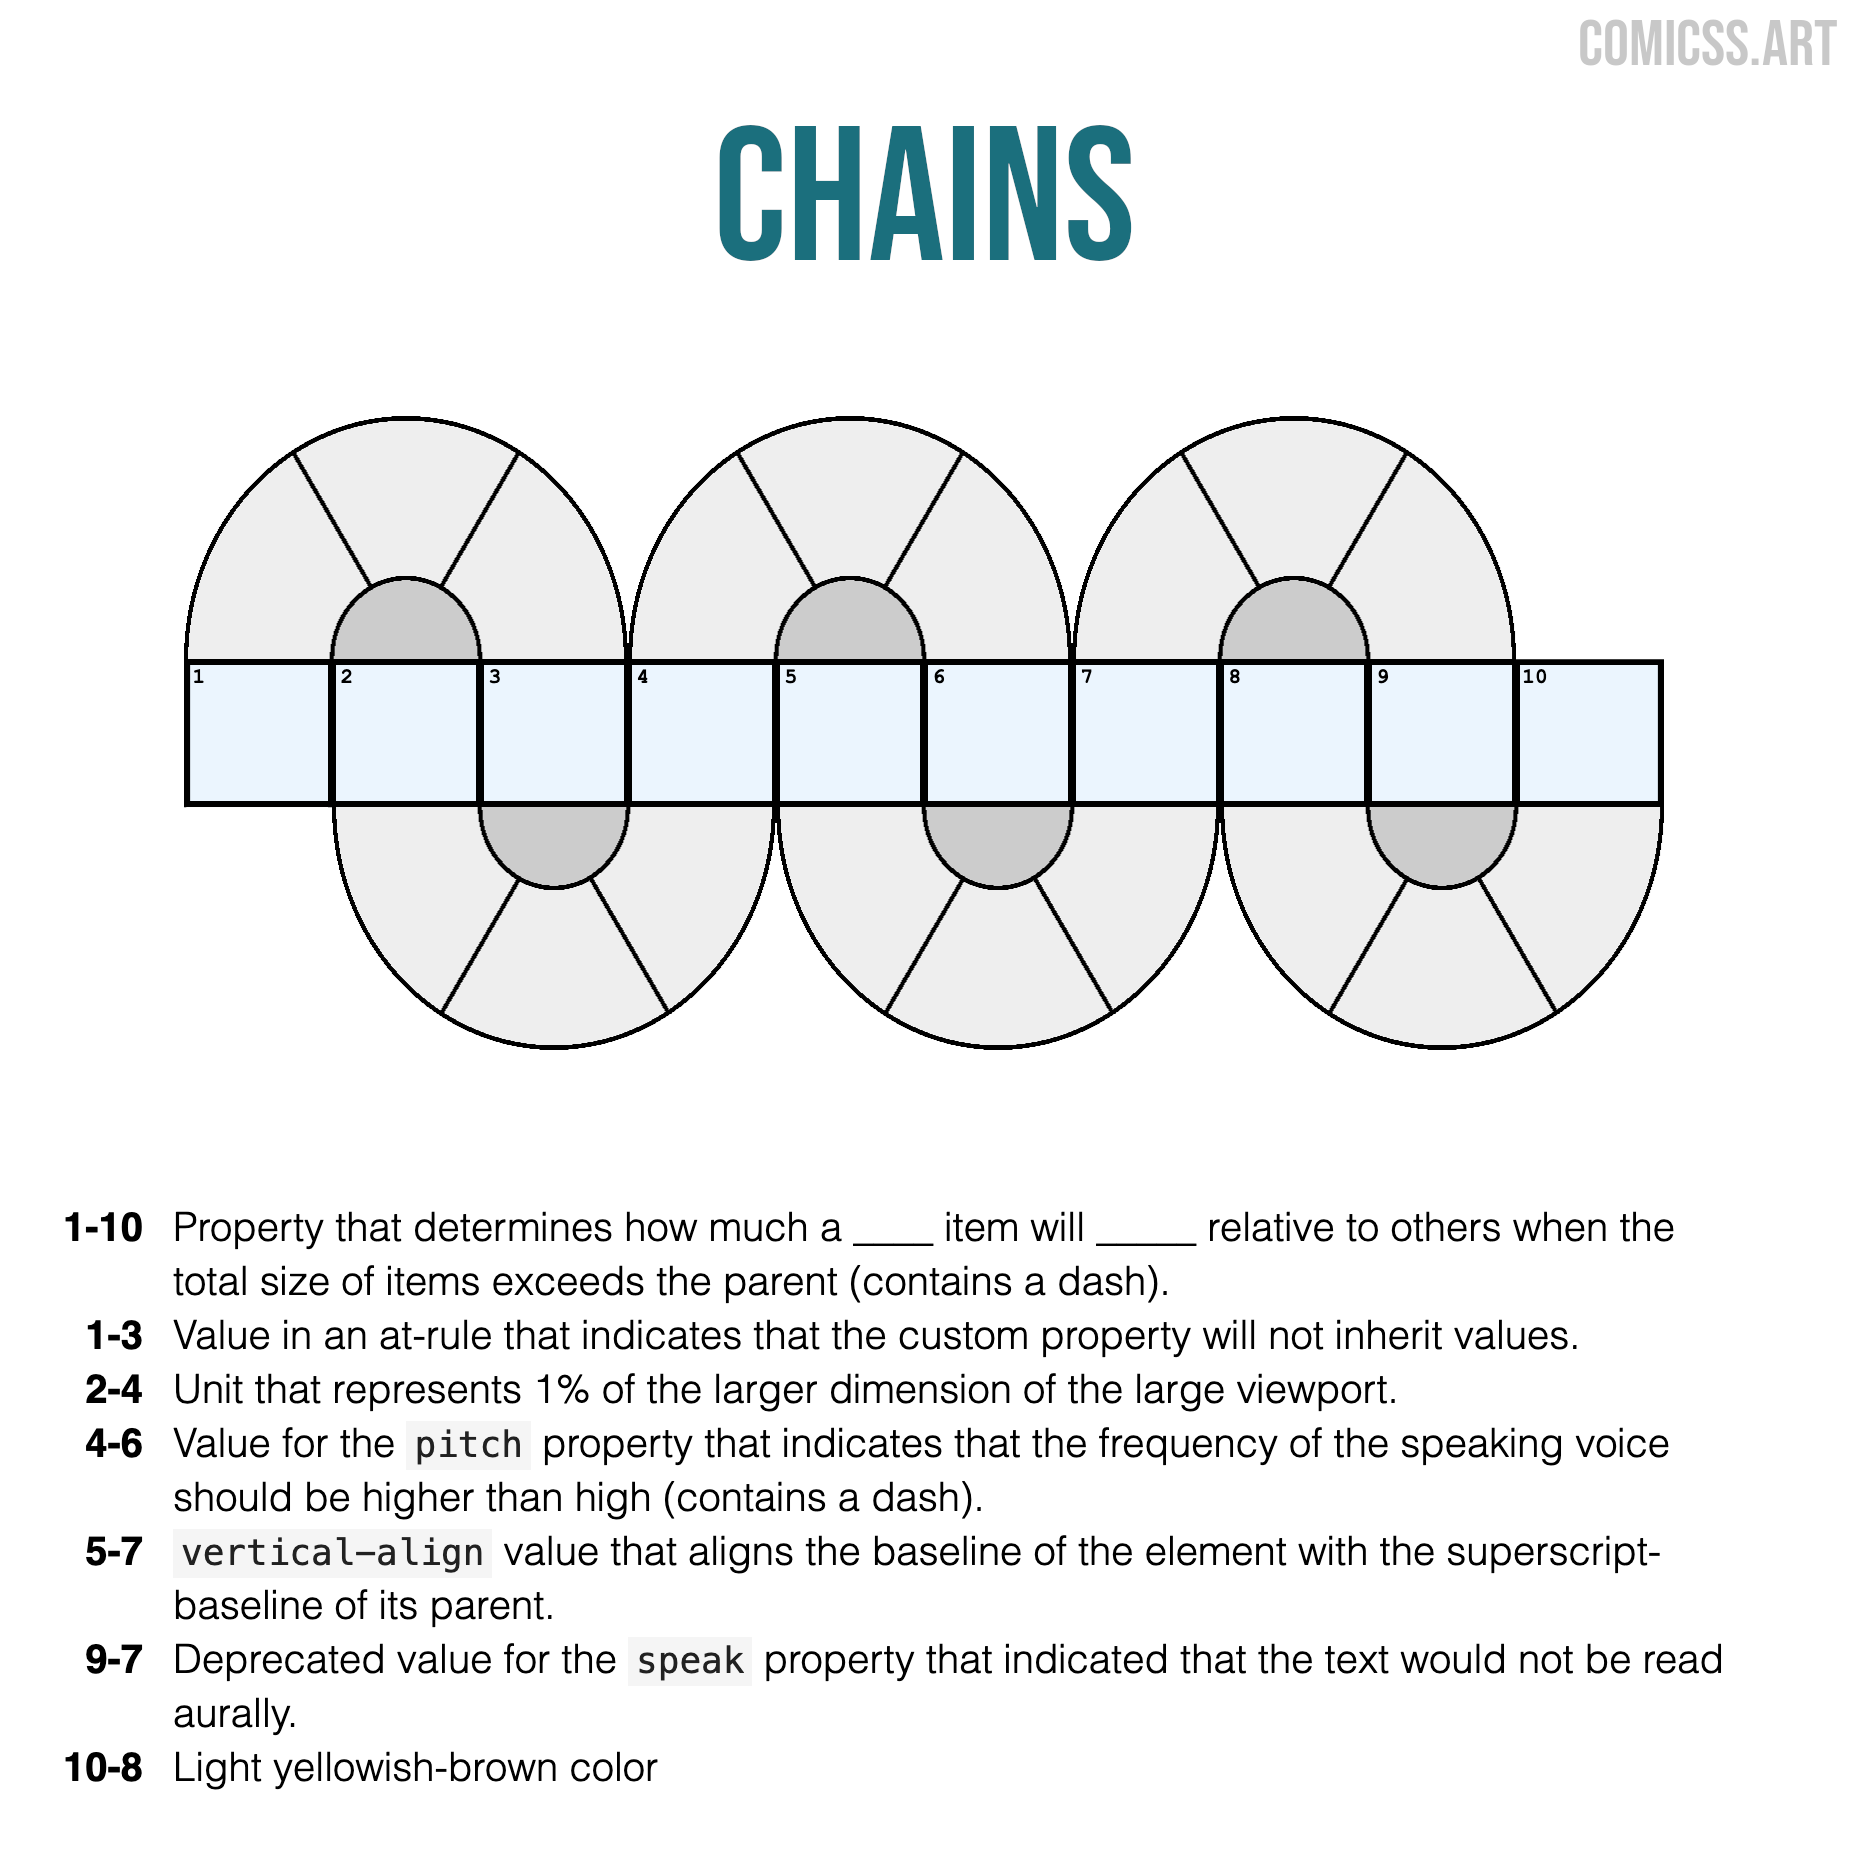
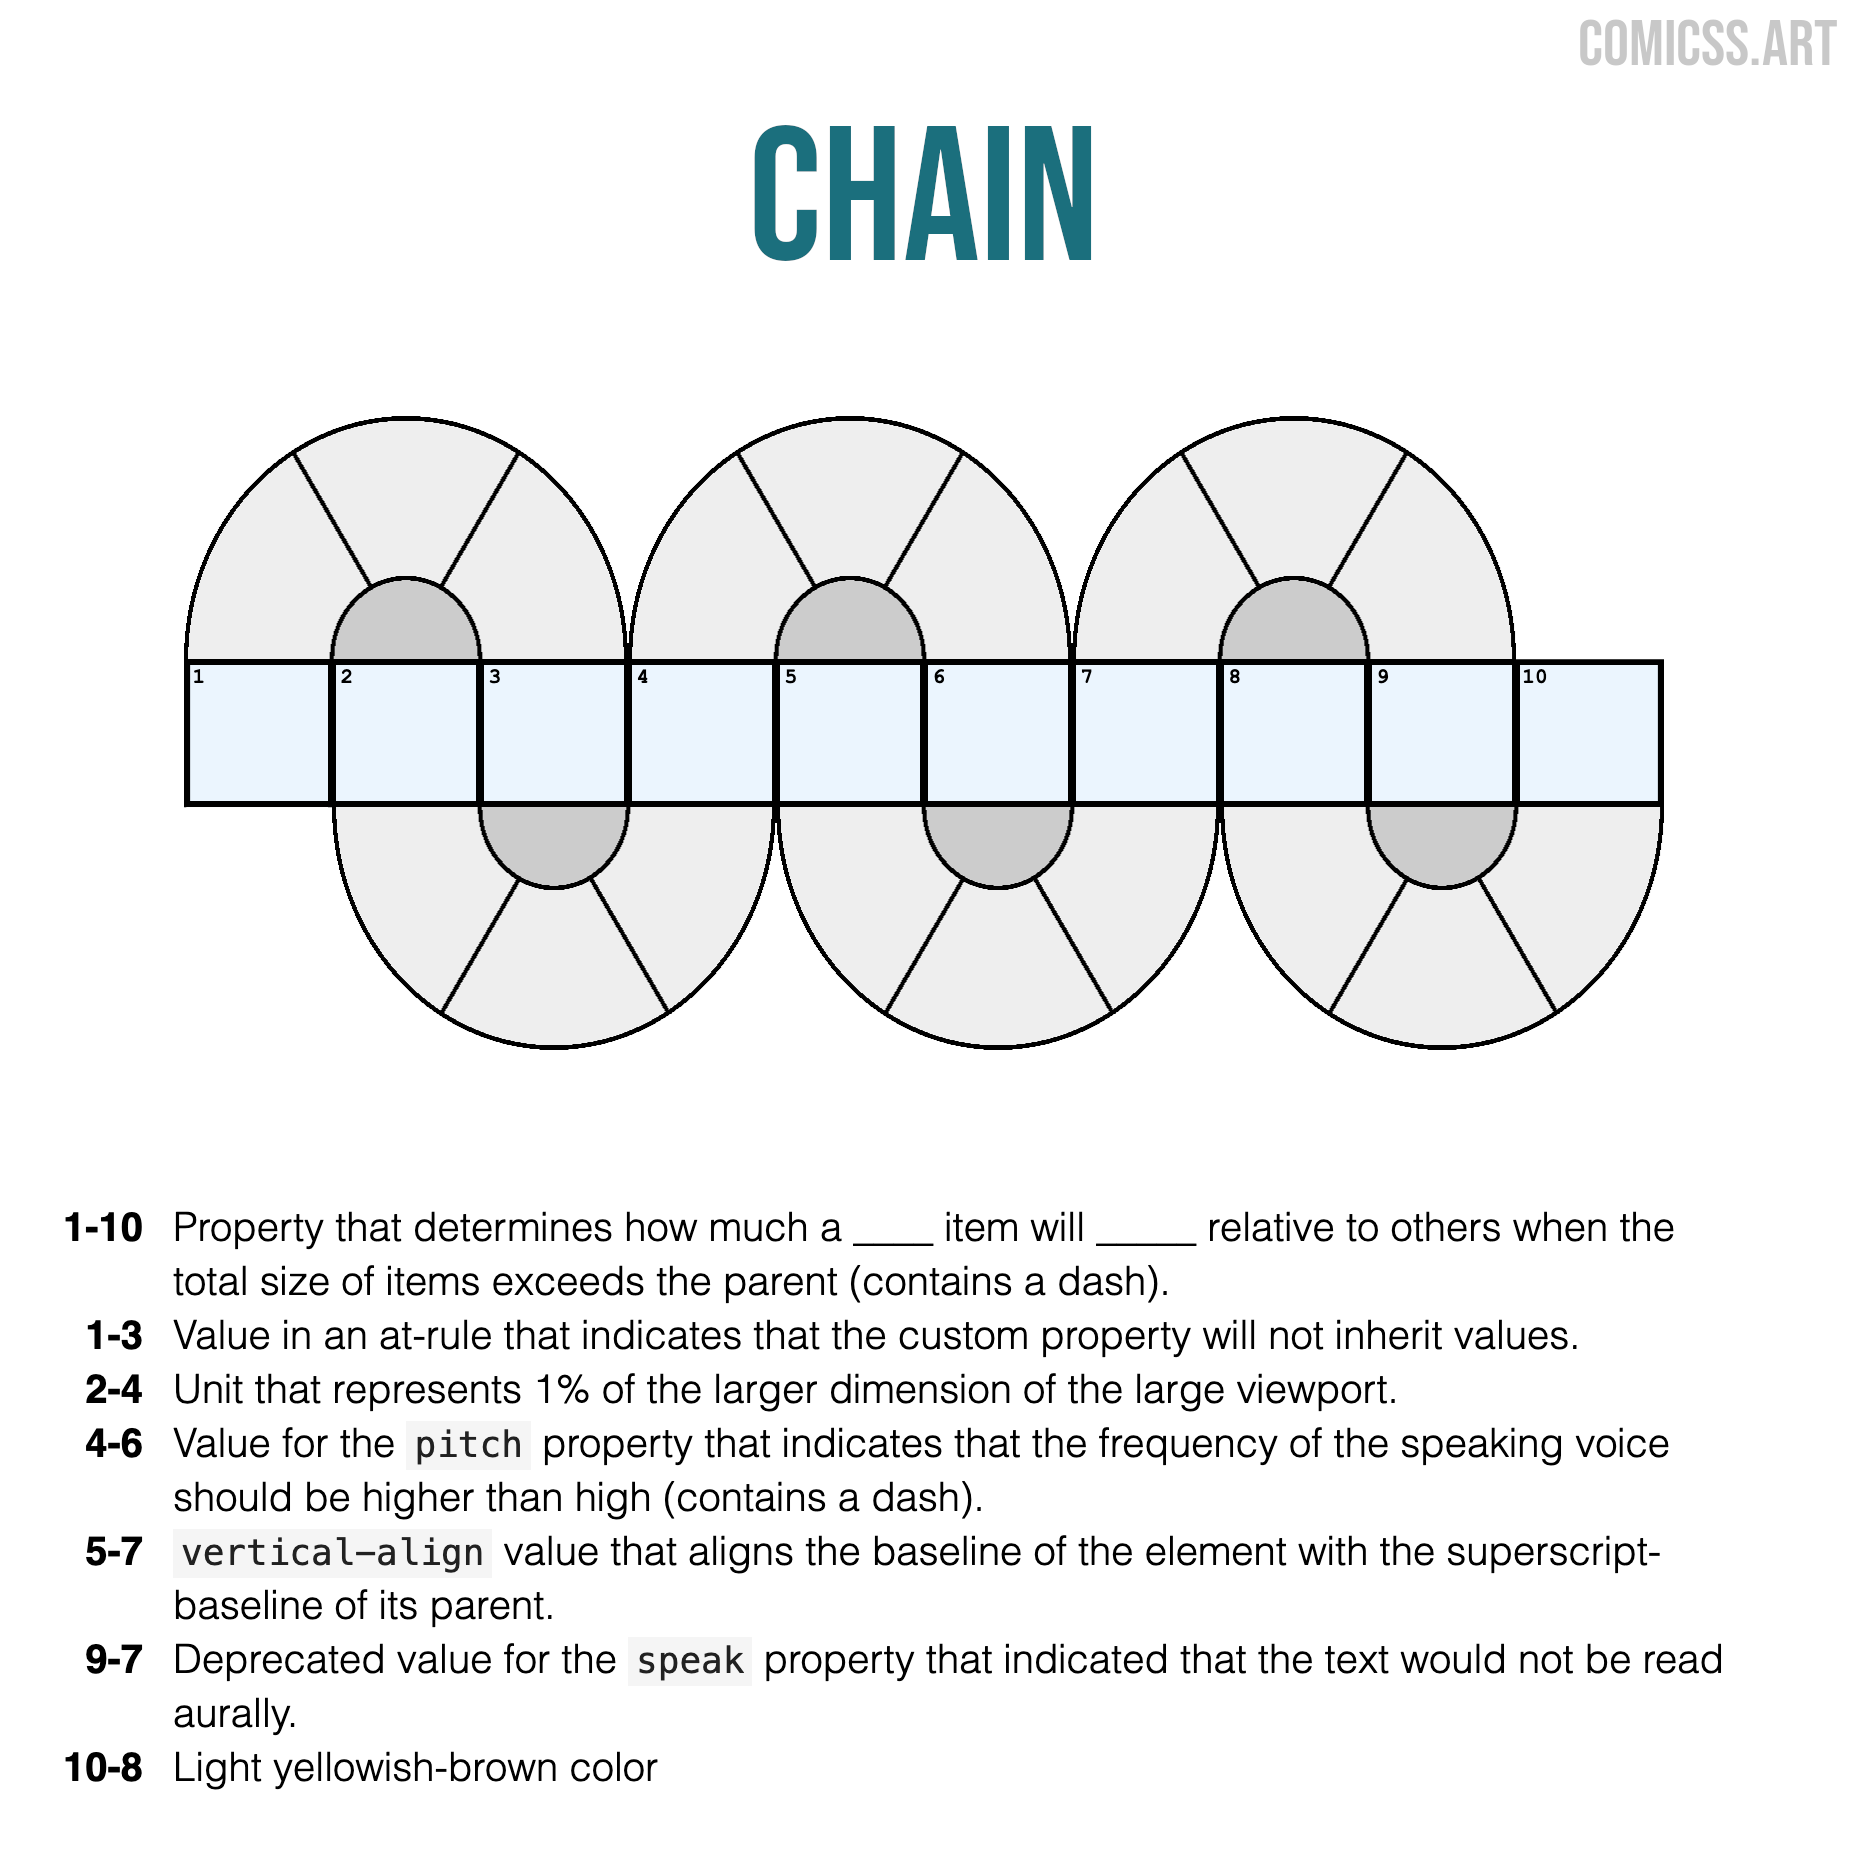
updates

Changed region(s): [[0.3697, 0.0616, 0.6162, 0.1541]]

diff --git a/games/41/index.html b/games/41/index.html
@@ -9,7 +9,7 @@
     <meta name="description" content="comiCSS Games: games about CSS. Coded in CSS (mostly)." />
     <meta name="theme-color" content="#993399" />
 
-    <title>comiCSS Game - </title>
+    <title>comiCSS Game - Chain</title>
 
     <meta property="og:title" content="Chain - comiCSS" />
     <meta property="og:type" content="website" />
